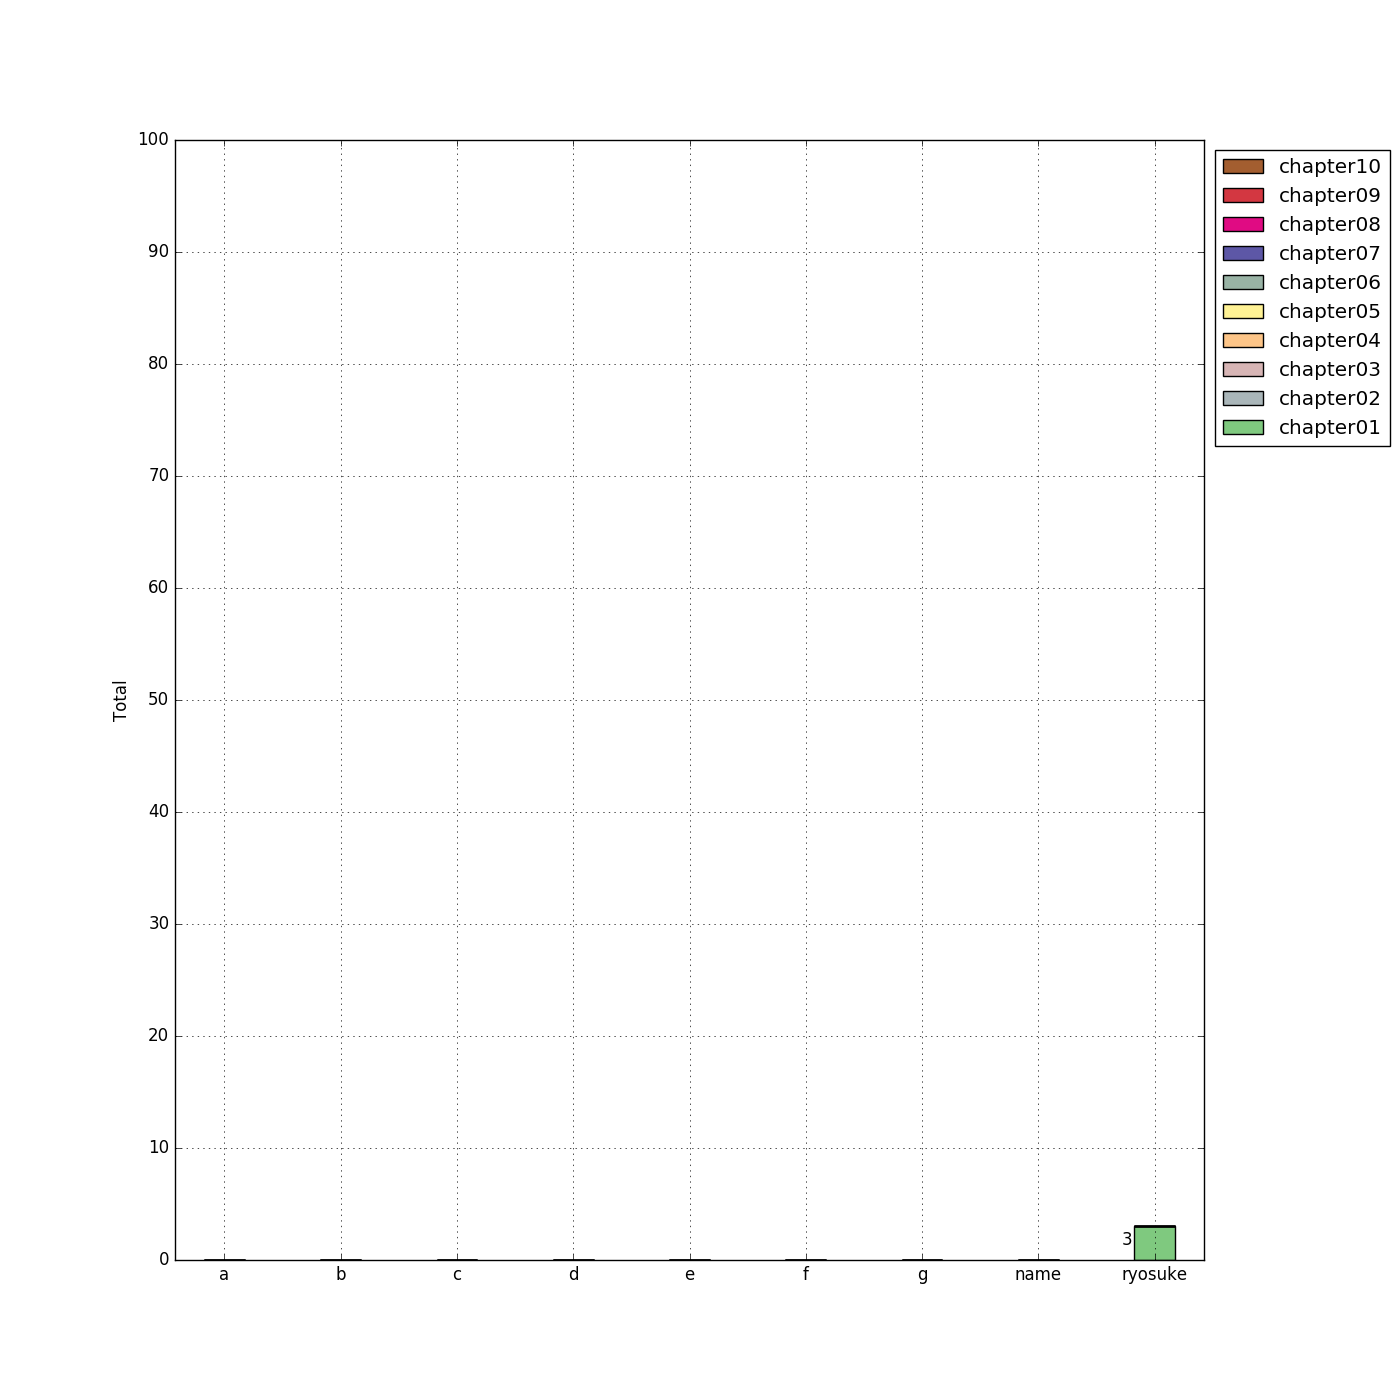
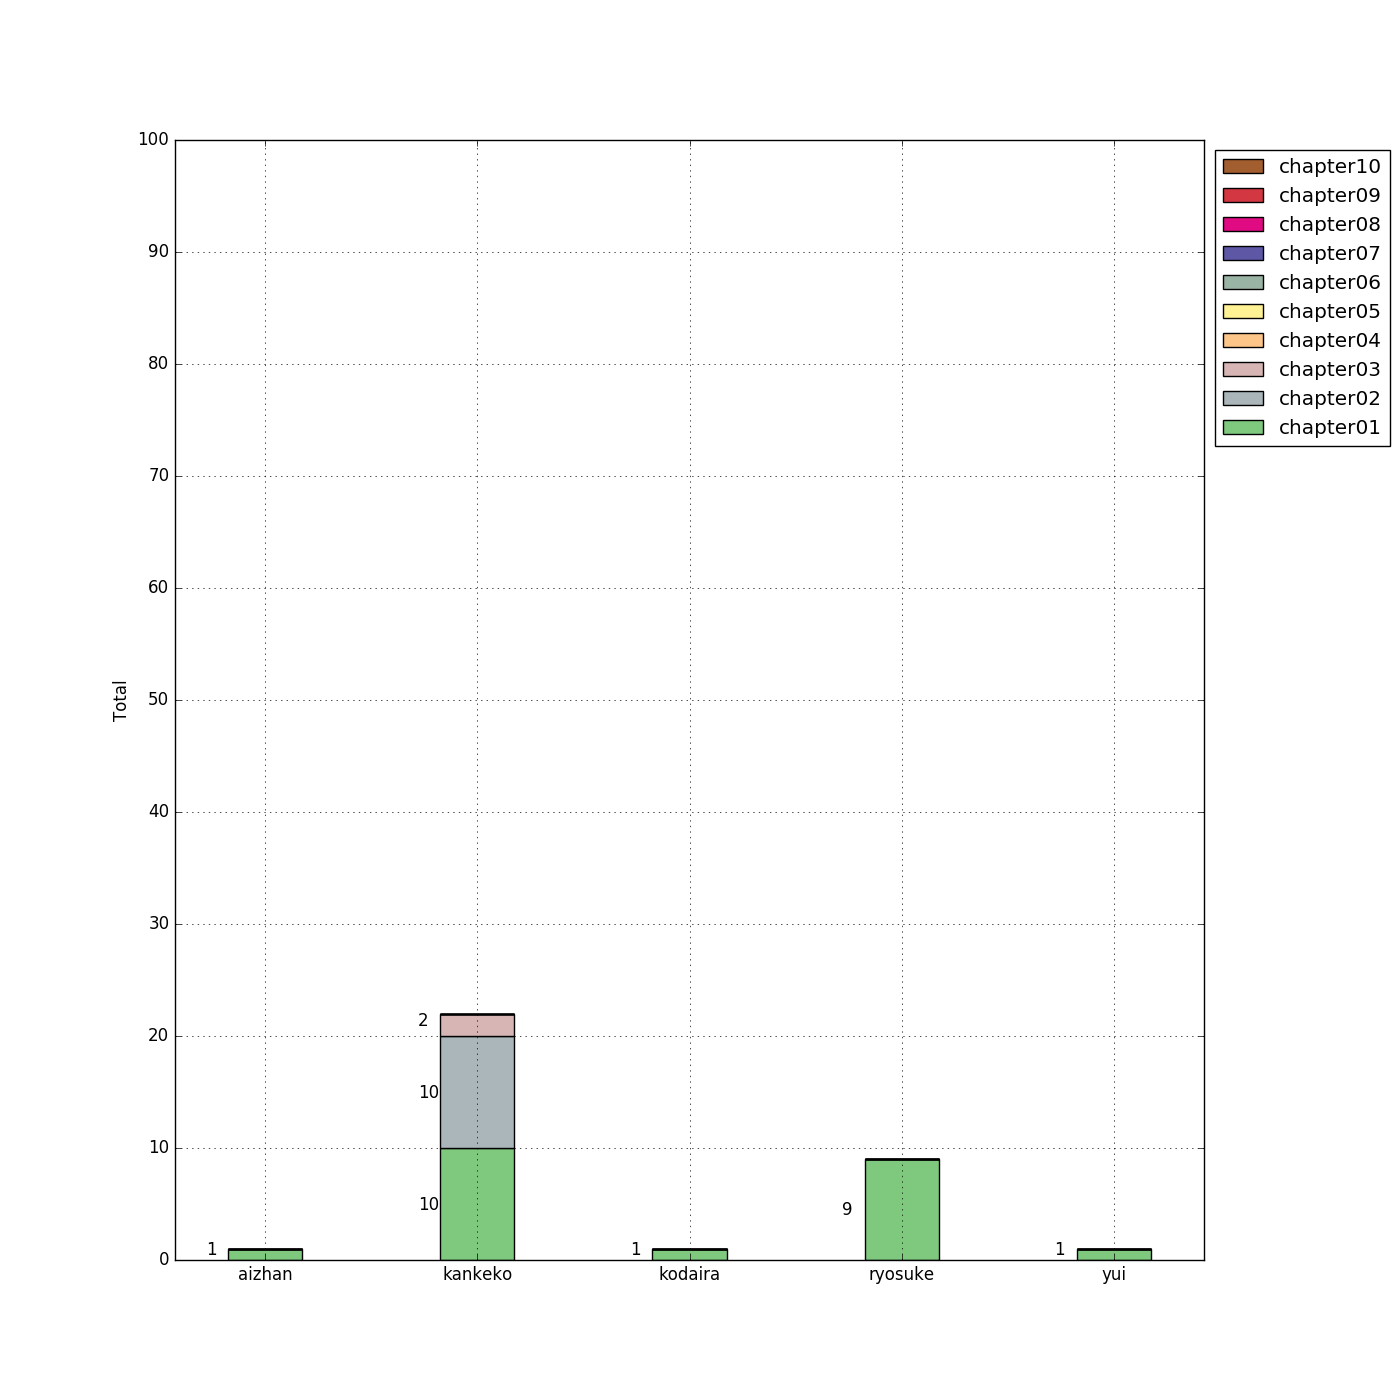
[modify] to treat cs file

diff --git a/calc_progress.py b/calc_progress.py
@@ -15,8 +15,9 @@ for userf in Path('./').iterdir():
         for i in range(1, 11):
             count = 0
             for j in l100[(i - 1) * 10:i * 10:]:
-                p = Path(userf.name + '/chapter{:0>2}/knock{:0>2}.py'.format(i, j))
-                if p.exists():
+                ppy = Path(userf.name + '/chapter{:0>2}/knock{:0>2}.py'.format(i, j))
+                pcs = Path(userf.name + '/chapter{:0>2}/knock{:0>2}.cs'.format(i, j))
+                if ppy.exists() or pcs.exists():
                     count += 1
             userd.append(count)
 data = np.array(data, dtype=int)
